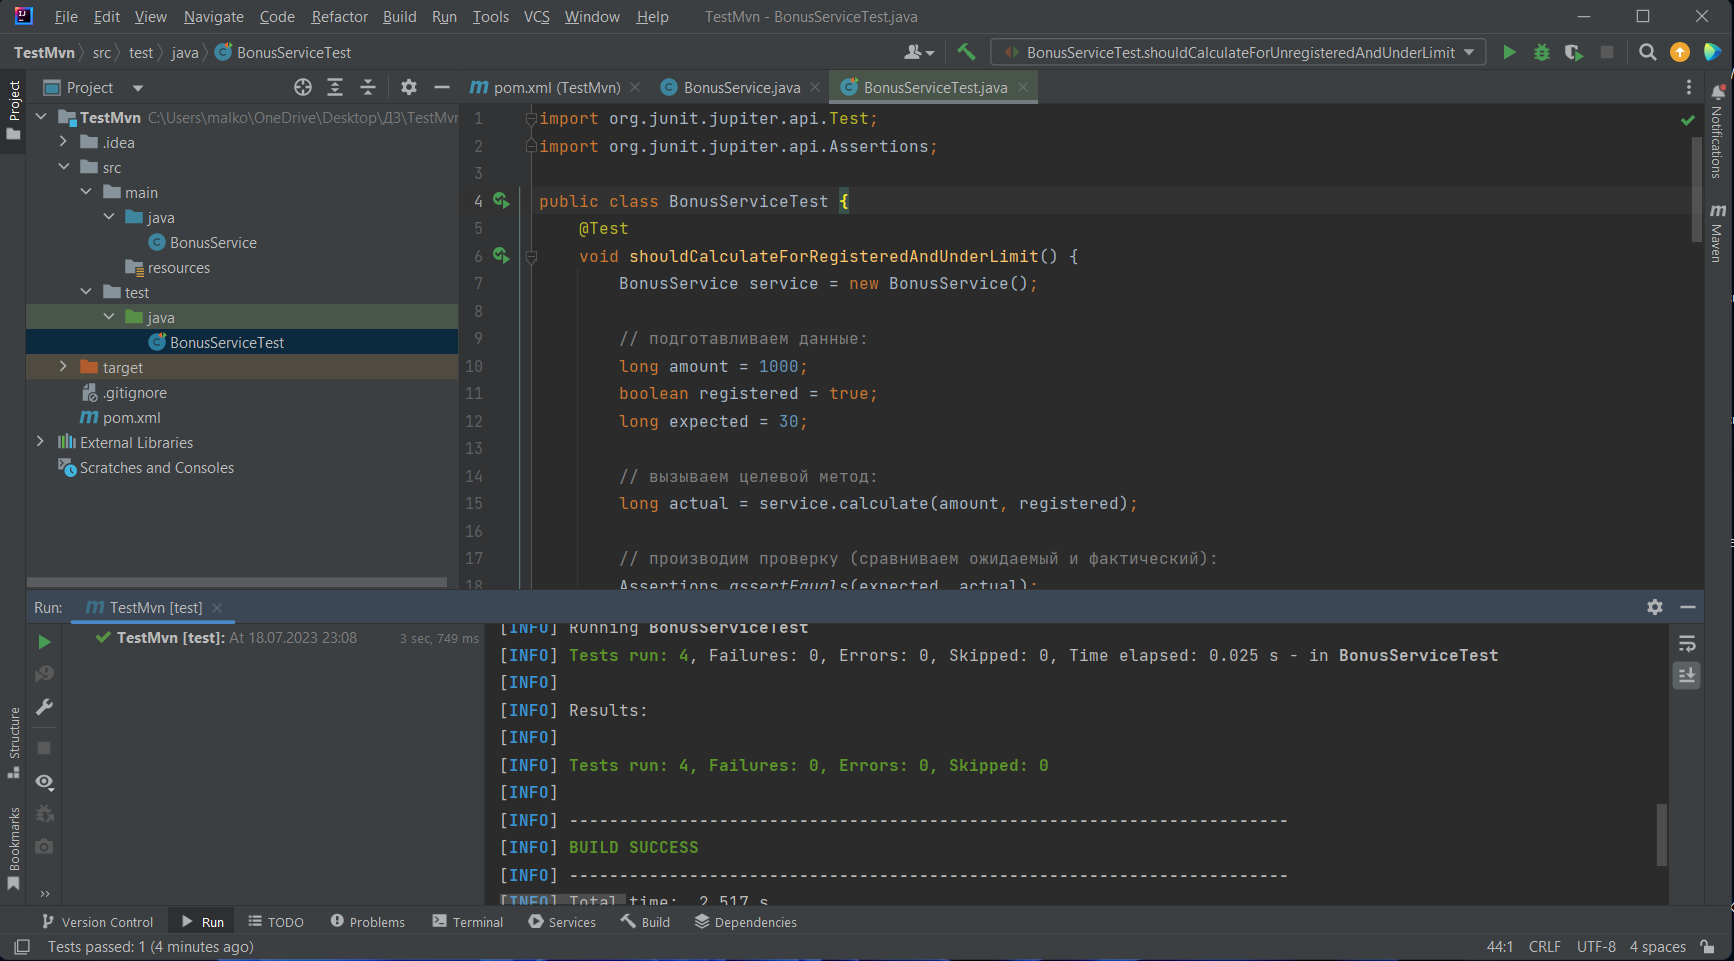
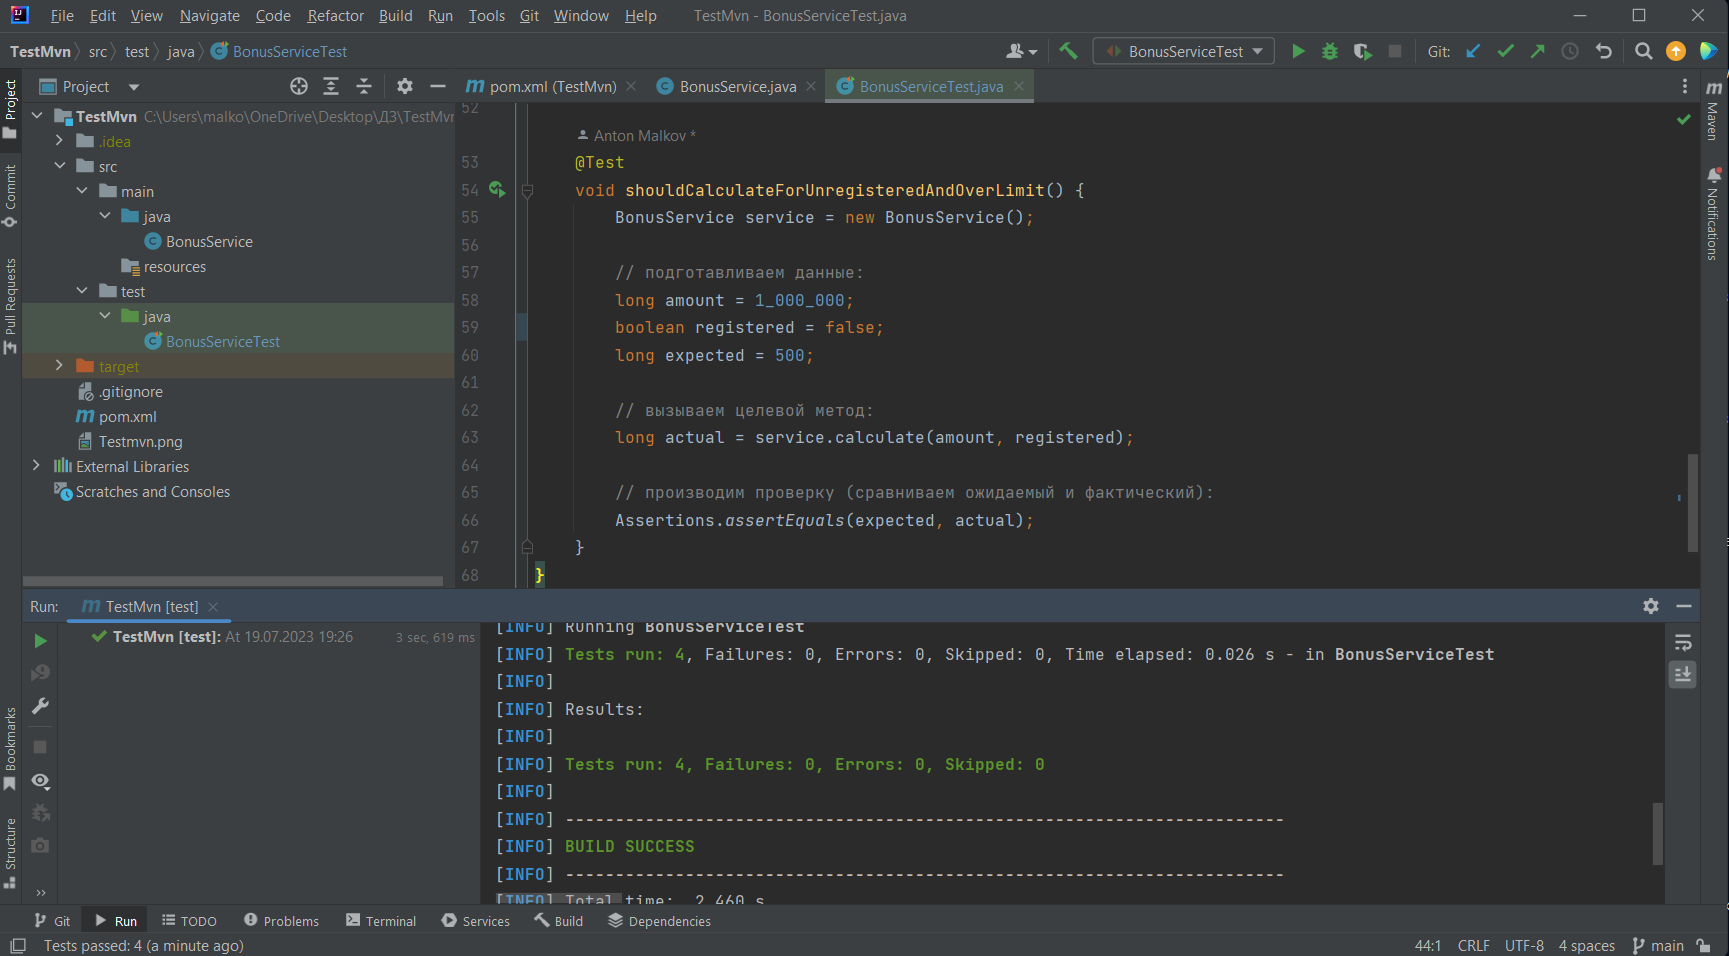
changing the code

diff --git a/src/test/java/BonusServiceTest.java b/src/test/java/BonusServiceTest.java
@@ -56,7 +56,7 @@ public class BonusServiceTest {
 
         // подготавливаем данные:
         long amount = 1_000_000;
-        boolean registered = true;
+        boolean registered = false;
         long expected = 500;
 
         // вызываем целевой метод:
